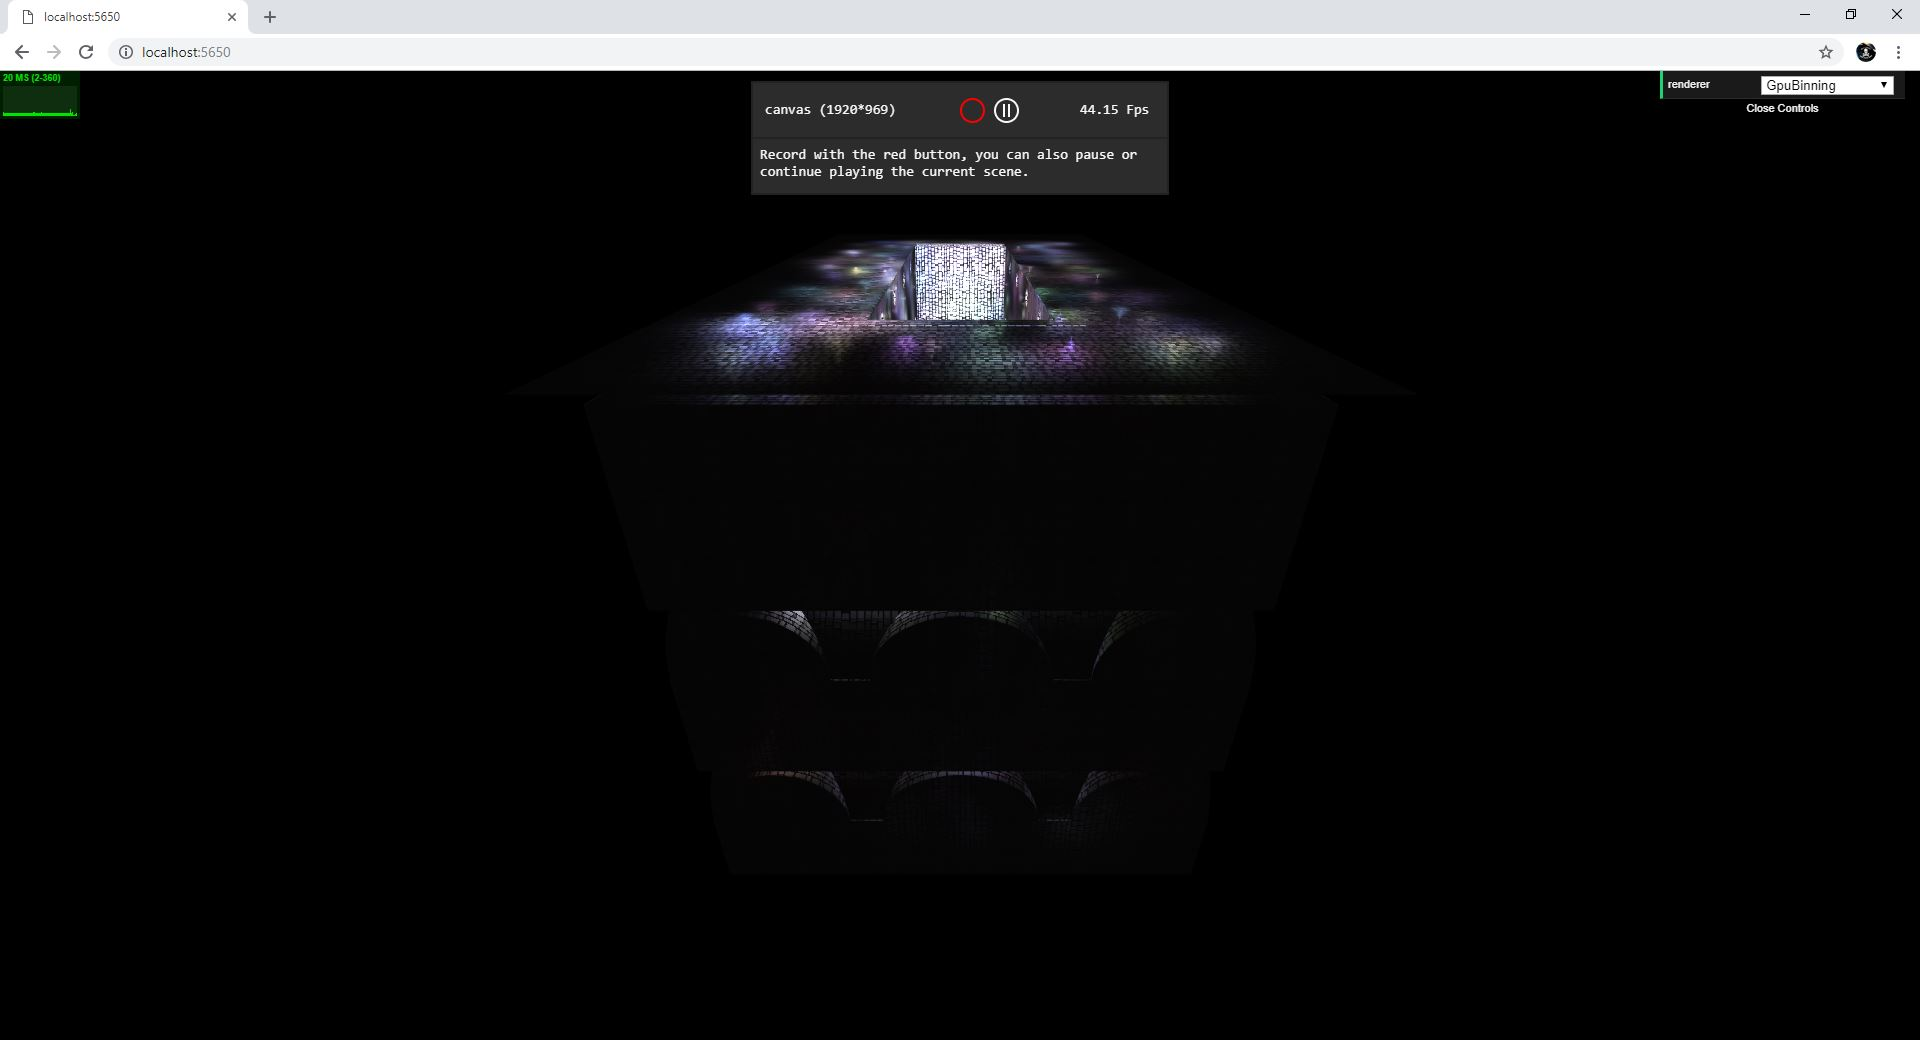
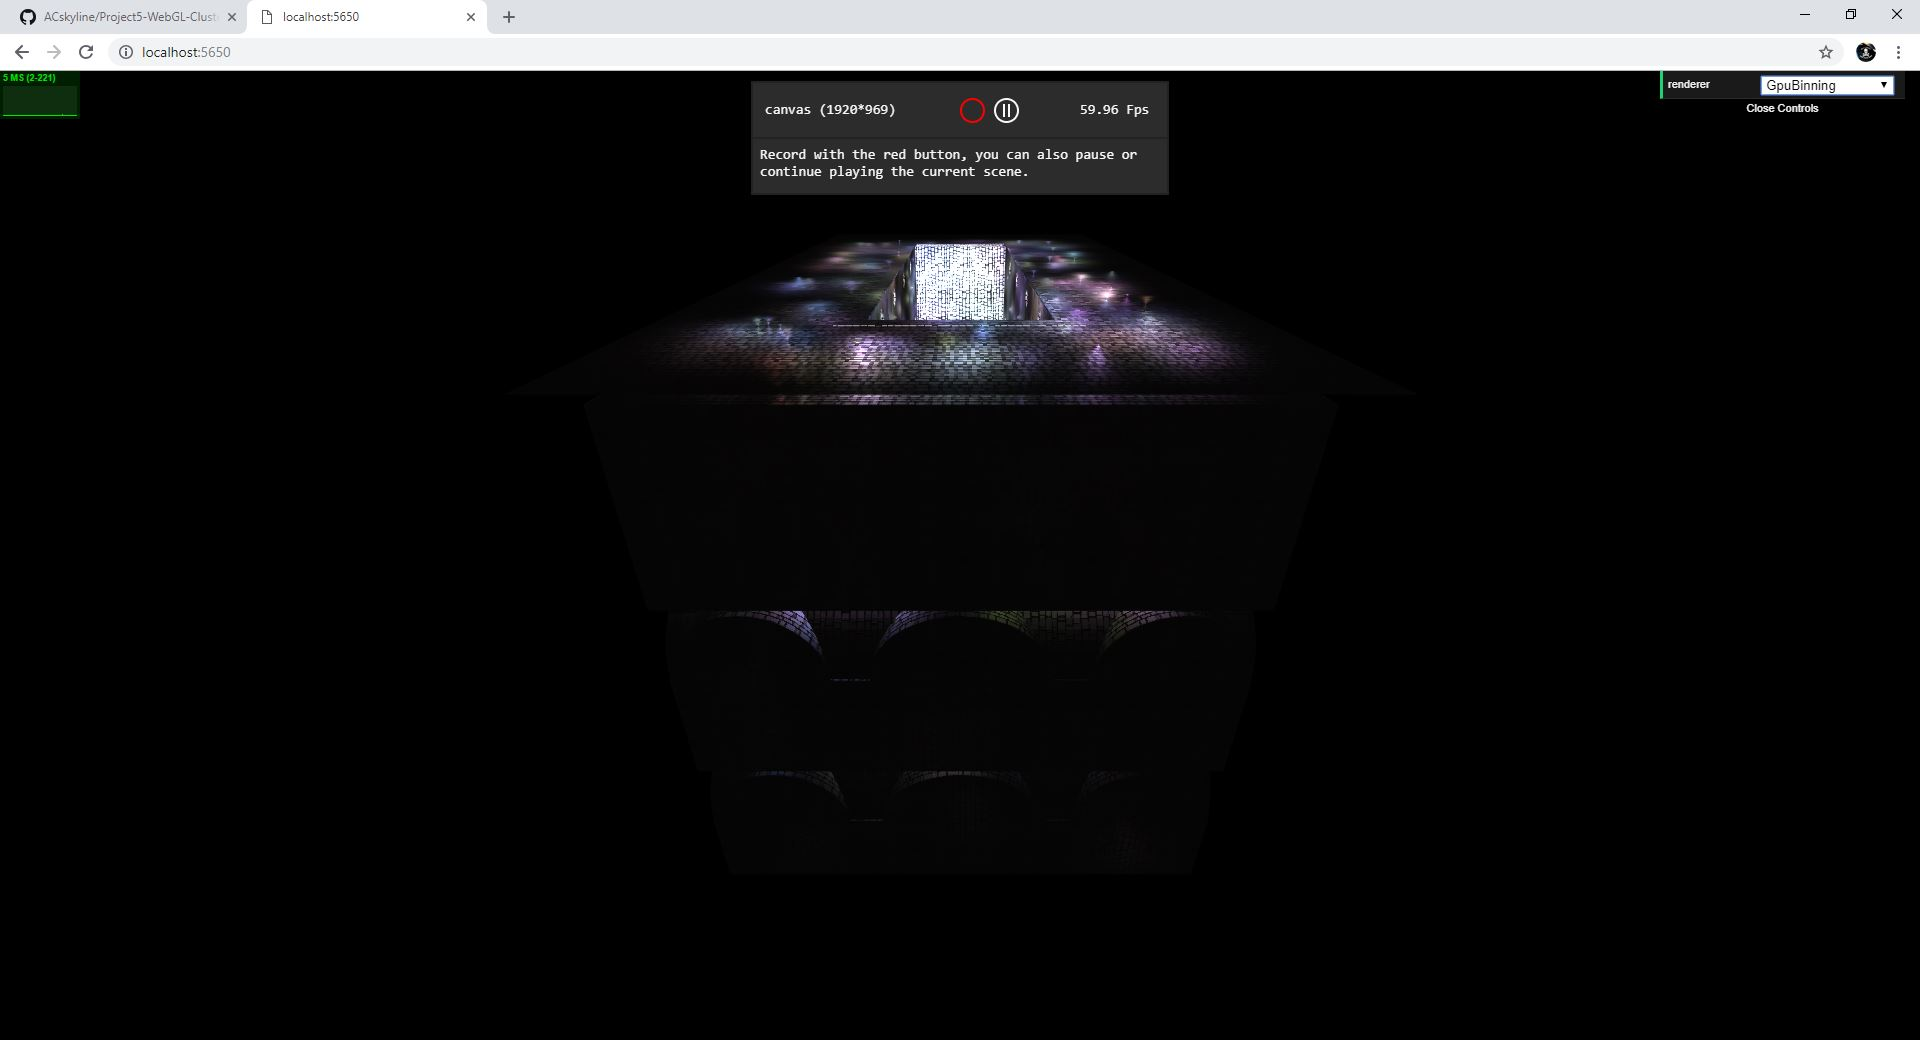
new pic

diff --git a/src/shaders/gpuBinningToTextureDebug.frag.glsl.js b/src/shaders/gpuBinningToTextureDebug.frag.glsl.js
@@ -17,11 +17,9 @@ export default function(params) {
   uniform float xstart;
   uniform float xend;
   uniform float xstep;
-  
   uniform float ystart;
   uniform float yend;
   uniform float ystep;
-  
   uniform float zstart;
   uniform float zend;
   uniform float zstep;
@@ -80,24 +78,24 @@ export default function(params) {
     frustum.points4 = p0;
     frustum.points5 = p4;
     
-    frustum.normals0 = normalize(cross(p1 - p0, p2 - p0));
-    frustum.normals1 = normalize(cross(p5 - p1, p3 - p1));
-    frustum.normals2 = normalize(cross(p3 - p2, p6 - p2));
-    frustum.normals3 = normalize(cross(p2 - p0, p4 - p0));
-    frustum.normals4 = normalize(cross(p4 - p0, p1 - p0));
-    frustum.normals5 = normalize(cross(p6 - p4, p5 - p4));
+    frustum.normals0 = normalize(cross(normalize(p1 - p0), normalize(p2 - p0)));
+    frustum.normals1 = normalize(cross(normalize(p5 - p1), normalize(p3 - p1)));
+    frustum.normals2 = normalize(cross(normalize(p3 - p2), normalize(p6 - p2)));
+    frustum.normals3 = normalize(cross(normalize(p2 - p0), normalize(p4 - p0)));
+    frustum.normals4 = normalize(cross(normalize(p4 - p0), normalize(p1 - p0)));
+    frustum.normals5 = normalize(cross(normalize(p6 - p4), normalize(p5 - p4)));
     
     return frustum;
   }
   
   bool FrustumSphereOverlap(Frustum frustum, vec3 sphereCenter, float sphereRadius)
   {
+            
         float distance = 0.0;
 
         for(int i = 0;i<6;++i)
         {
-            vec3 frustumPlaneToSphereDir;
-            
+
             if(i==0)
             {
                 distance = dot(frustum.normals0, sphereCenter - frustum.points0);
@@ -126,7 +124,7 @@ export default function(params) {
             if(abs(distance) < sphereRadius)
             {
                 // intersect, return true
-                return true;
+                // return true;
             }
             else if(distance > sphereRadius)
             {
@@ -225,15 +223,15 @@ export default function(params) {
       {
         ////////////////////////////////////////////////////////////////////
         //DEBUG, USING GREEN CHANNEL TO MARK THE LIGHTS WHO ARE not IN THE CLUSTER
-        if(i==0) fragColor.g += 0.25;
-        else if(i==1) fragColor.g += 0.25;
-        else if(i==2) fragColor.g += 0.25;
-        else if(i==3) fragColor.g += 0.25;
+        // if(i==0) fragColor.g += 0.25;
+        // else if(i==1) fragColor.g += 0.25;
+        // else if(i==2) fragColor.g += 0.25;
+        // else if(i==3) fragColor.g += 0.25;
         ////////////////////////////////////////////////////////////////////
       }
     }
     
-    gl_FragData[0] = fragColor;
+    gl_FragData[0] = fragColor;//vec4(float(x)/float(CLUSTER_X), float(y)/float(CLUSTER_Y), float(z)/float(CLUSTER_Z), 1.0);//
     
   }
   `;

diff --git a/src/shaders/gpuBinningToTexture.frag.glsl.js b/src/shaders/gpuBinningToTexture.frag.glsl.js
@@ -80,12 +80,12 @@ export default function(params) {
     frustum.points4 = p0;
     frustum.points5 = p4;
     
-    frustum.normals0 = normalize(cross(p1 - p0, p2 - p0));
-    frustum.normals1 = normalize(cross(p5 - p1, p3 - p1));
-    frustum.normals2 = normalize(cross(p3 - p2, p6 - p2));
-    frustum.normals3 = normalize(cross(p2 - p0, p4 - p0));
-    frustum.normals4 = normalize(cross(p4 - p0, p1 - p0));
-    frustum.normals5 = normalize(cross(p6 - p4, p5 - p4));
+    frustum.normals0 = normalize(cross(normalize(p1 - p0), normalize(p2 - p0)));
+    frustum.normals1 = normalize(cross(normalize(p5 - p1), normalize(p3 - p1)));
+    frustum.normals2 = normalize(cross(normalize(p3 - p2), normalize(p6 - p2)));
+    frustum.normals3 = normalize(cross(normalize(p2 - p0), normalize(p4 - p0)));
+    frustum.normals4 = normalize(cross(normalize(p4 - p0), normalize(p1 - p0)));
+    frustum.normals5 = normalize(cross(normalize(p6 - p4), normalize(p5 - p4)));
     
     return frustum;
   }
@@ -96,8 +96,7 @@ export default function(params) {
 
         for(int i = 0;i<6;++i)
         {
-            vec3 frustumPlaneToSphereDir;
-            
+        
             if(i==0)
             {
                 distance = dot(frustum.normals0, sphereCenter - frustum.points0);
@@ -126,7 +125,7 @@ export default function(params) {
             if(abs(distance) < sphereRadius)
             {
                 // intersect, return true
-                return true;
+                // return true;
             }
             else if(distance > sphereRadius)
             {
@@ -200,7 +199,7 @@ export default function(params) {
     
     Frustum frustum = GenerateFrustum(float(x), float(y), float(z));
     
-    vec4 fragColor = vec4(0, 0, 0, 1);
+    vec4 fragColor = vec4(0, 0, 0, 0);
     
     for (int i = 0; i < 4; ++i) {
       int lightIdx = lightIdxStart + i;

diff --git a/README.md b/README.md
@@ -86,35 +86,56 @@ According to the chart, clustered deferred rendering benefits more from ad-hoc b
 
 ---
 
-## 6. GPU binning clustered forward renderer.
+## 6. GPU binning clustered forward renderer
 
 ### overview
 
-* very near distance
-
-![](img/a.jpg)
-
-* near distance
-
-![](img/b.jpg)
-
-* mid distance
-
-![](img/c.jpg)
-
-* far distance
-
-![](img/d.jpg)
-
-* very far distance
-
-![](img/e.jpg)
+|   rendered image   |   cluster texture   |
+|:------------------:|:-------------------:|
+|![](img/abcde1.gif) |![](img/abcde2.gif)  |
 
 ### analysis
 
 Using GPU to bin the lights is the ultimate solution to increase fps. However, webgl currently does not support compute shader. To bin the lights, we have to draw a full screen quad and convert fragment coordinates to cluster index and loop through 4 lights in each fragment shader. 
 
-Ideally, we want to store only the lights that's in the cluster and a total number of them so that we can loop through only these lights in the subsequent pass. But because we don't have compute shader, we also don't have atomic operations. This makes the above storage scheme impossible. We have to store a bool value for each and every light in the scene for each cluster to indicate whether the particular light is in the particular cluster or not. This means in the subsequent pass, we can not get the total light count and can not only iterate through a small amount of lights. We have to check for each light in the scene whether they are in the cluster or not. And this is an expensive operation. In fact, compared with the un-clustered forward renderer, this makes no improvement at all. The rendering time of the GPU binning clustered forward renderer is not faster than the un-clustered forward renderer.
+Ideally, we want to store only the lights that's in the cluster and a total number of them so that we can loop through only these lights in the subsequent pass. But because we don't have compute shader, we also don't have atomic operations. This makes the above storage scheme impossible. We have to store a bool value for each and every light in the scene for each cluster to indicate whether the particular light is in the particular cluster or not. This can be illustrated in the following picture.
+
+![](x.JPG)
+
+
+This means in the subsequent pass, we can not get the total light count and can not only iterate through a small amount of lights. We have to check for each light in the scene whether they are in the cluster or not. And this is an expensive operation. In fact, compared with the un-clustered forward renderer, this makes no improvement at all. The rendering time of the GPU binning clustered forward renderer is not faster than the un-clustered forward renderer.
+
+### images
+
+* very near distance
+
+| rendered image | cluster texture |
+|:--------------:|:---------------:|
+|![](img/a1.JPG) |![](img/a2.JPG)  |
+
+* near distance
+
+| rendered image | cluster texture |
+|:--------------:|:---------------:|
+|![](img/b1.JPG) |![](img/b2.JPG)  |
+
+* mid distance
+
+| rendered image | cluster texture |
+|:--------------:|:---------------:|
+|![](img/c1.JPG) |![](img/c2.JPG)  |
+
+* far distance
+
+| rendered image | cluster texture |
+|:--------------:|:---------------:|
+|![](img/d1.JPG) |![](img/d2.JPG)  |
+
+* very far distance
+
+| rendered image | cluster texture |
+|:--------------:|:---------------:|
+|![](img/e1.JPG) |![](img/e2.JPG)  |
 
 ---
 
